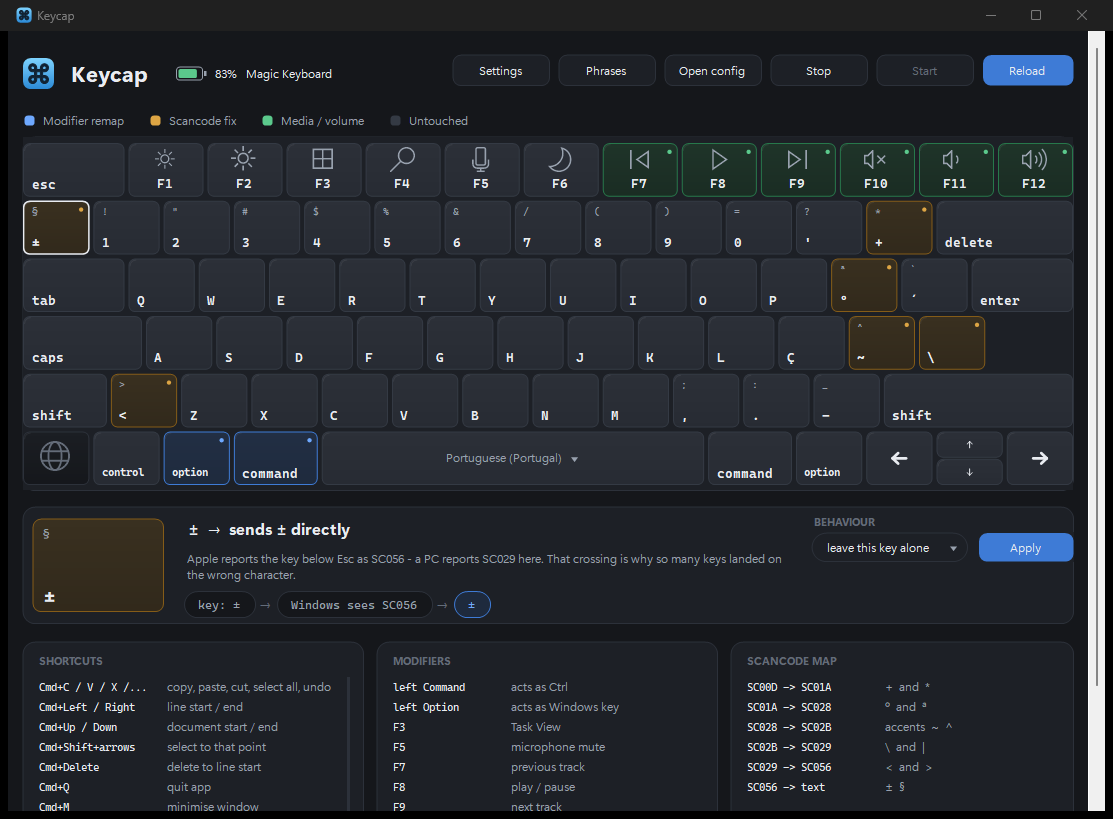
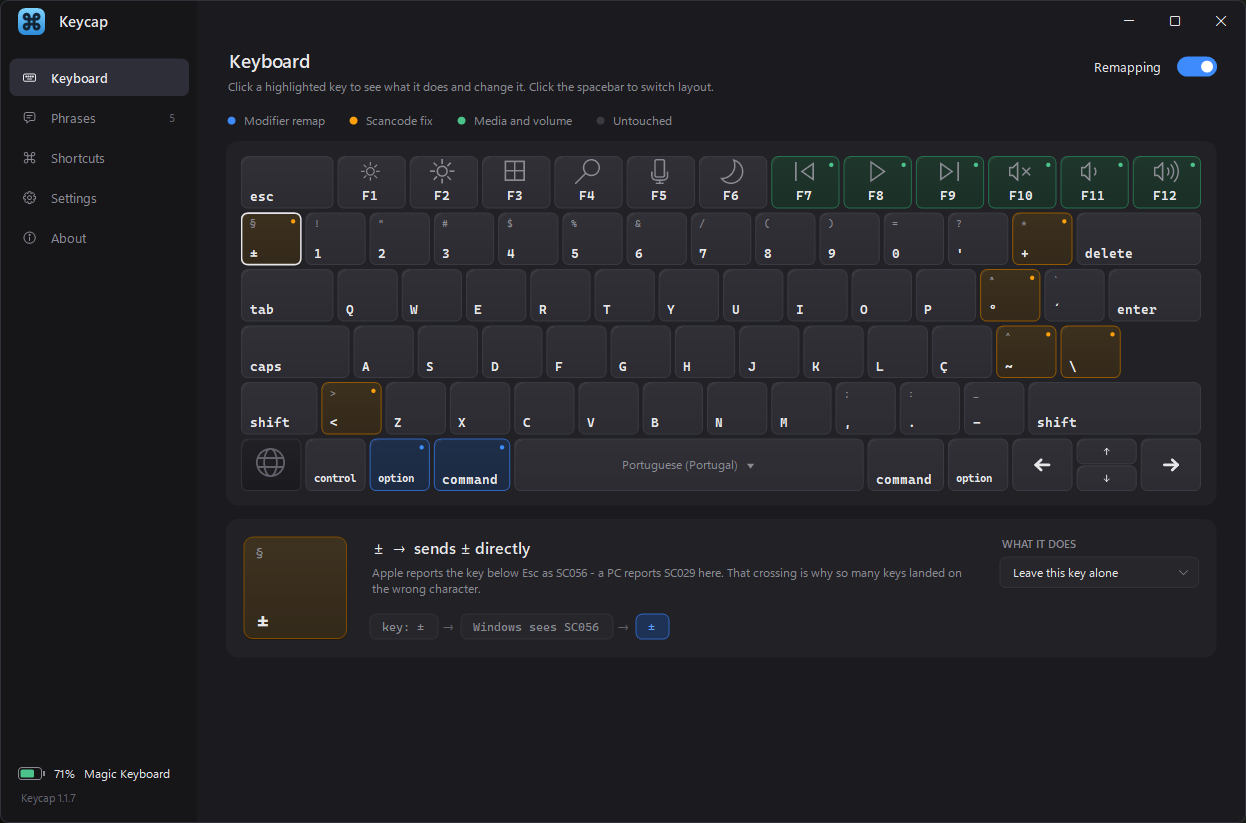
docs(readme): update the screenshot to the new window

diff --git a/README.md b/README.md
@@ -10,7 +10,7 @@
 </p>
 
 <p align="center">
-  <img src="docs/window.png" alt="Keycap showing the Magic Keyboard with every remapped key highlighted" width="722">
+  <img src="docs/window.png" alt="Keycap showing the Magic Keyboard with every remapped key highlighted" width="760">
 </p>
 
 <p align="center">
